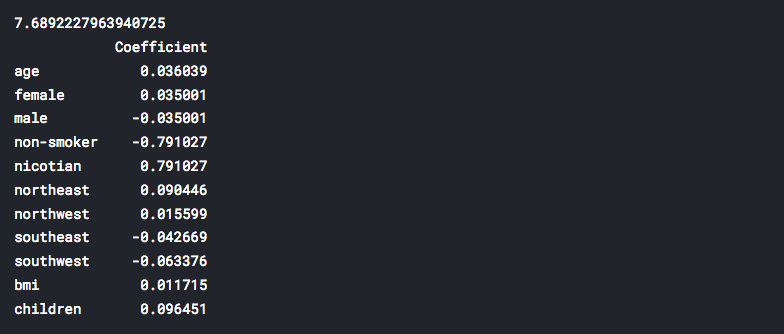
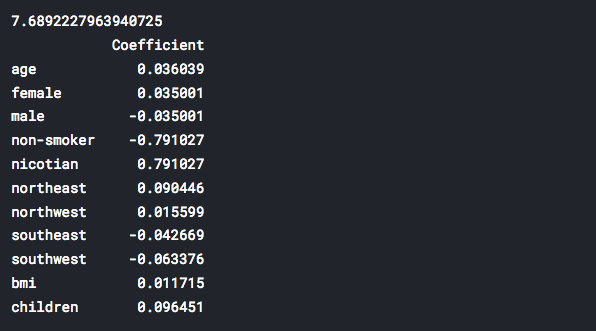
Log Transformation 1.2

diff --git a/_posts/2019-01-19-DataNormalization.md b/_posts/2019-01-19-DataNormalization.md
@@ -59,7 +59,8 @@ Ok. We have transformed our category of interest. Is it going to be helpful for 
 
 ```python
     print(lm.intercept_)
-    coeff_df = pd.DataFrame(lm.coef_,X.columns,columns=['Coefficient'])
+    coeff_df = pd.DataFrame(lm.coef_,X.columns,
+    columns=['Coefficient'])
     print(coeff_df)
 ```
 <img src="{{ site.url }}{{ site.baseurl }}/images/2 Data Normalization/LRcoeff.png" alt="LR coeff">
